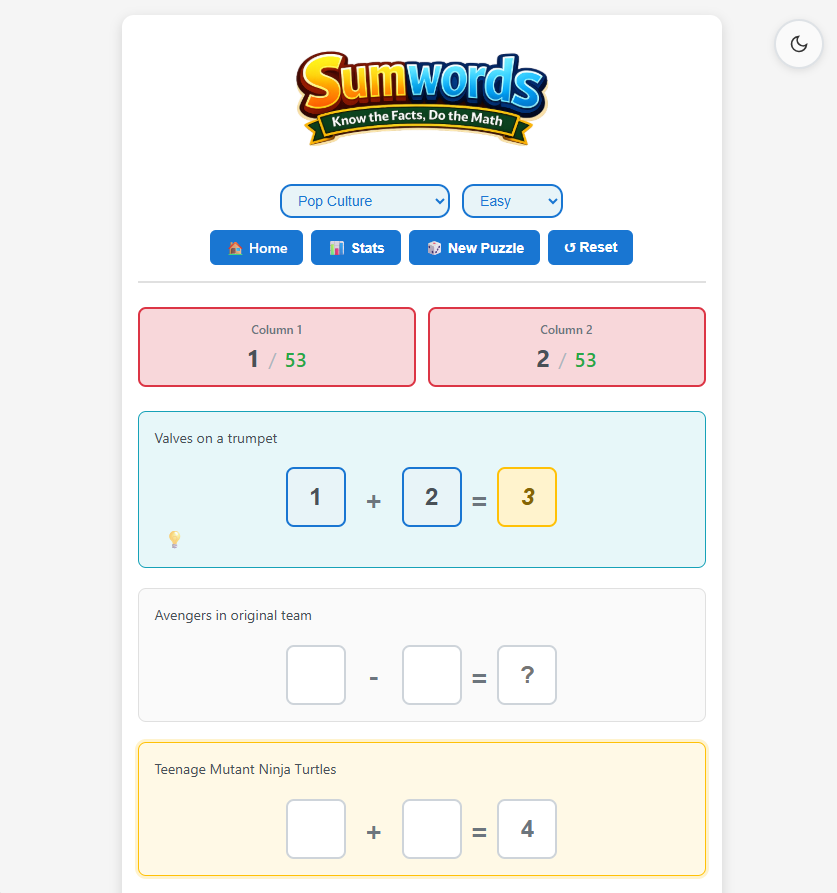
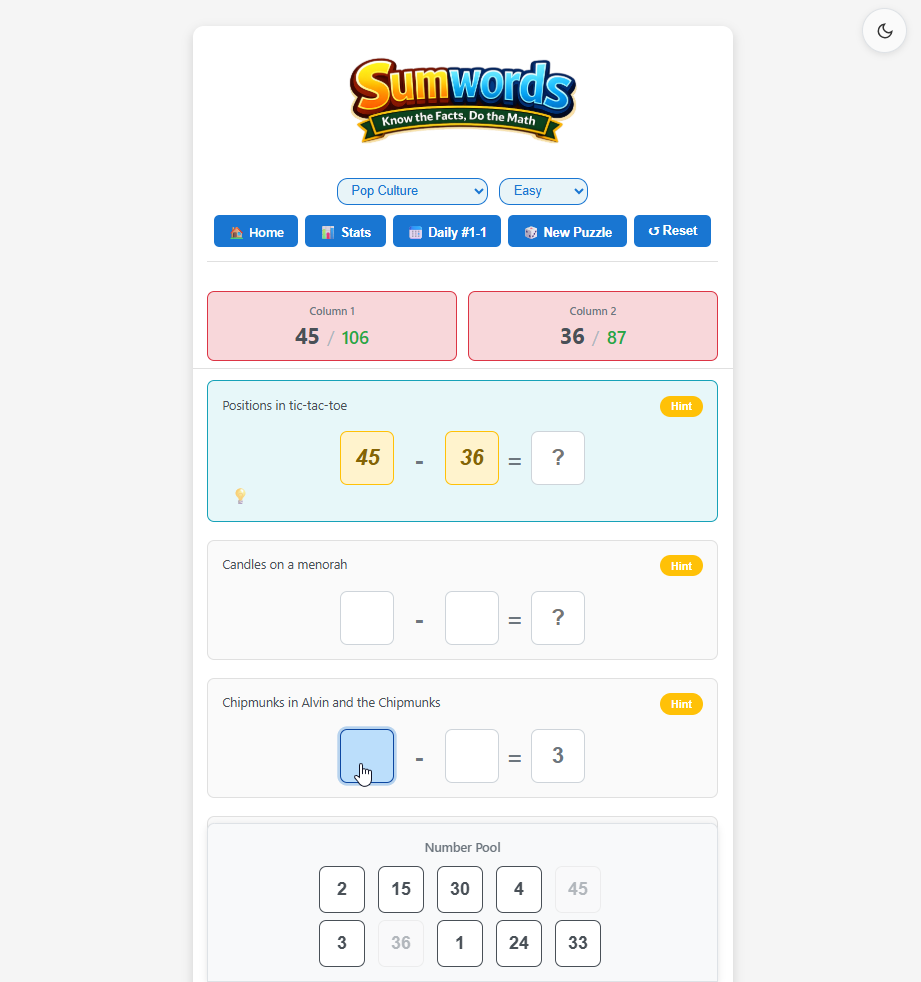
Update screenshot and use it in the README
Replace the landing page screenshot with the current UI (shows the Daily
button and per-equation Hint pills) and point the README at the repo
file instead of the old GitHub-hosted image.

diff --git a/README.md b/README.md
@@ -19,7 +19,7 @@ A constraint-based math puzzle game that combines trivia knowledge with equation
 **Sumwords:** [🎲 Play Game](https://thebimsider.github.io/sumwords/V01/)
 
 <p align="center">
-  <img width="837" height="893" alt="Sumwords_in_Action" src="https://github.com/user-attachments/assets/e41bede5-2c7f-4498-8a6c-b3973879f29b" />
+  <img width="600" alt="Sumwords_in_Action" src="landing/Sumwords_in_Action.png" />
   <br />
   <em>Sumwords in action</em>
 </p>
